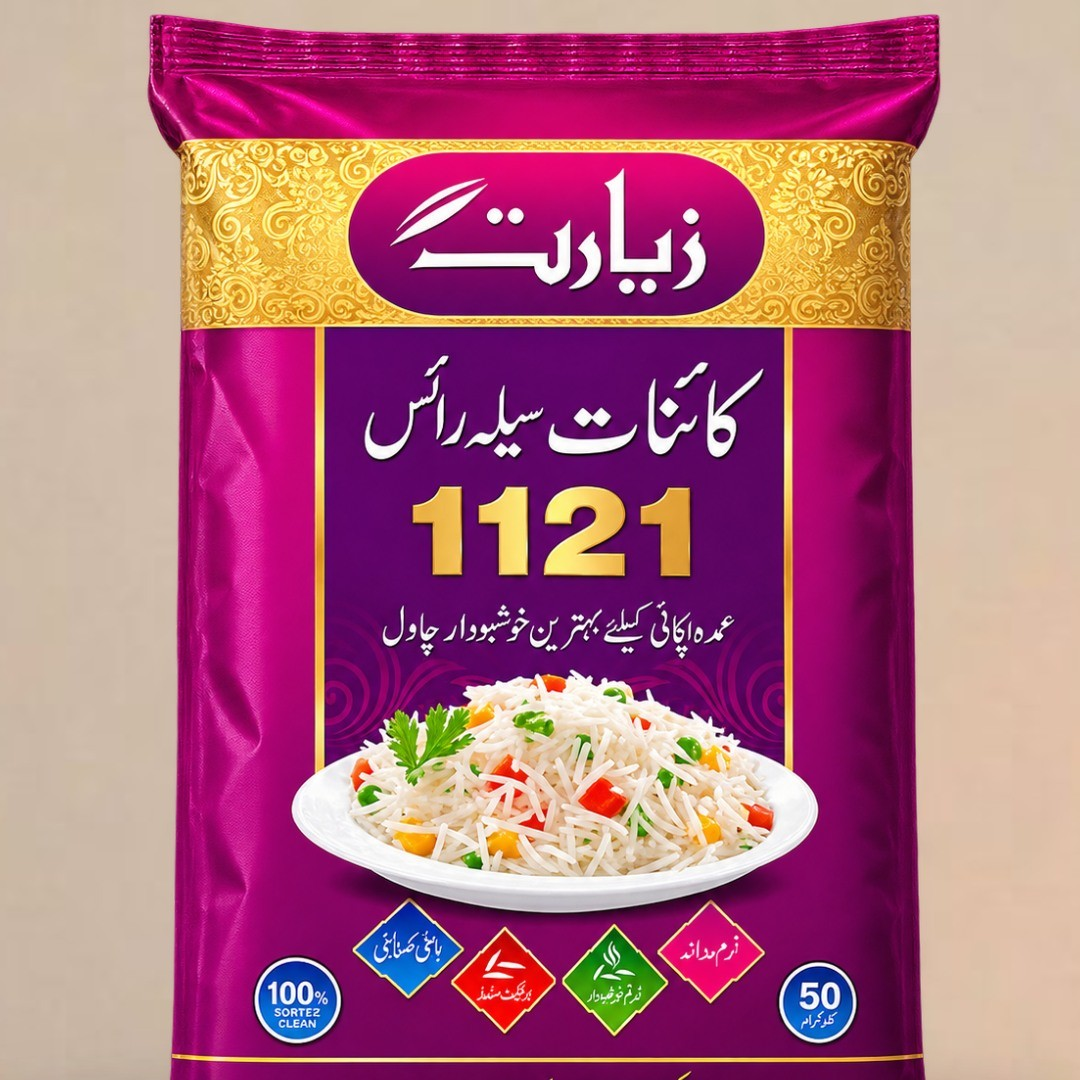
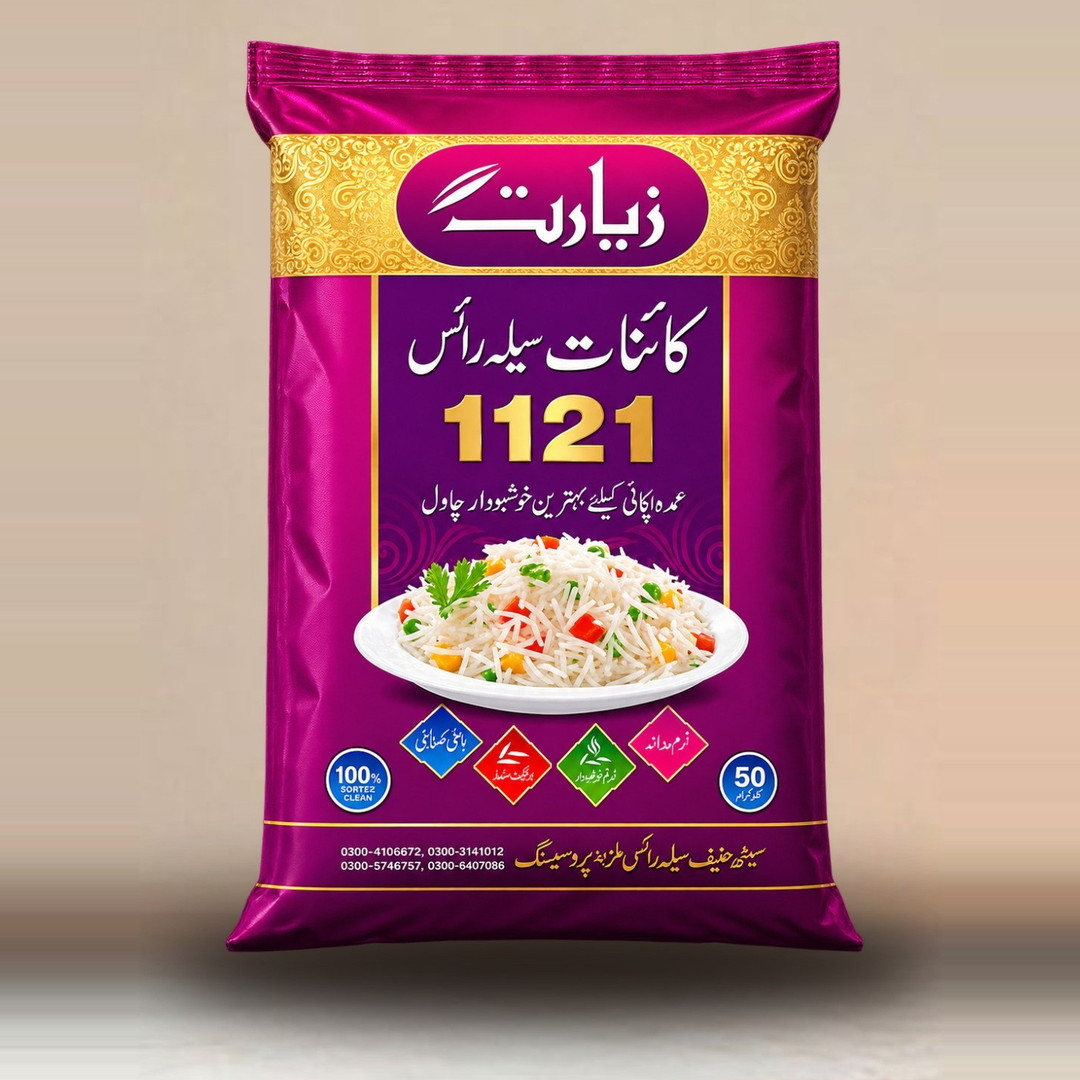
Show the full Ziyarat Sella 1121 pack — stop the square crop.
The product frame was 1:1 with overflow hidden, so the tall Photopea shot lost the bottom of the bag. Recrop the pack to 3:4 around the sack, contain it in the square tile, and let the product gallery follow the image.

diff --git a/product-sella.html b/product-sella.html
@@ -11,15 +11,15 @@
   <meta property="og:description" content="Ziyarat Kainat Sella 1121 — extra-long parboiled rice from Saith Hanif Rice Mills. Suitable where cooked rice needs to hold. Pack sizes 5 / 10 / 20 / 25 kg.">
   <meta property="og:type" content="website">
   <meta property="og:url" content="https://muhammadashir0.github.io/jhabran-rice-mill/product-sella.html">
-  <meta property="og:image" content="https://muhammadashir0.github.io/jhabran-rice-mill/assets/products/ziyarat-sella-1121.jpg?v=1">
+  <meta property="og:image" content="https://muhammadashir0.github.io/jhabran-rice-mill/assets/products/ziyarat-sella-1121.jpg?v=2">
   <meta name="theme-color" content="#0B241C">
   <link rel="preconnect" href="https://fonts.googleapis.com">
   <link rel="preconnect" href="https://fonts.gstatic.com" crossorigin>
   <link href="https://fonts.googleapis.com/css2?family=Inter:wght@400;500;600;700&family=Playfair+Display:ital,wght@0,400;0,500;0,600;0,700;1,400;1,500;1,600&family=Noto+Nastaliq+Urdu:wght@400;500;600;700&display=swap" rel="stylesheet">
-  <link rel="stylesheet" href="css/style.css?v=87">
+  <link rel="stylesheet" href="css/style.css?v=88">
   <link rel="stylesheet" href="css/home.css?v=88">
   <script type="application/ld+json">
-  {"@context": "https://schema.org", "@type": "Product", "name": "Kainat Sella Rice 1121", "brand": {"@type": "Brand", "name": "Ziyarat"}, "description": "Ziyarat Kainat Sella 1121 — extra-long parboiled rice from Saith Hanif Rice Mills. Suitable where cooked rice needs to hold. Pack sizes 5 / 10 / 20 / 25 kg.", "image": "https://muhammadashir0.github.io/jhabran-rice-mill/assets/products/ziyarat-sella-1121.jpg?v=1", "manufacturer": {"@type": "Organization", "name": "Saith Hanif Rice Mills", "url": "https://muhammadashir0.github.io/jhabran-rice-mill/"}}
+  {"@context": "https://schema.org", "@type": "Product", "name": "Kainat Sella Rice 1121", "brand": {"@type": "Brand", "name": "Ziyarat"}, "description": "Ziyarat Kainat Sella 1121 — extra-long parboiled rice from Saith Hanif Rice Mills. Suitable where cooked rice needs to hold. Pack sizes 5 / 10 / 20 / 25 kg.", "image": "https://muhammadashir0.github.io/jhabran-rice-mill/assets/products/ziyarat-sella-1121.jpg?v=2", "manufacturer": {"@type": "Organization", "name": "Saith Hanif Rice Mills", "url": "https://muhammadashir0.github.io/jhabran-rice-mill/"}}
   </script>
 </head>
 <body>
@@ -98,12 +98,12 @@
       <div class="wrap pdp-grid">
                 <div class="pdp-gallery">
           <figure class="pdp-shot">
-            <img src="assets/products/ziyarat-sella-1121.jpg?v=1" alt="Ziyarat Kainat Sella Rice 1121" width="1080" height="1920" fetchpriority="high" decoding="async">
+            <img src="assets/products/ziyarat-sella-1121.jpg?v=2" alt="Ziyarat Kainat Sella Rice 1121" width="1080" height="1440" fetchpriority="high" decoding="async">
           </figure>
           <details class="pack-design">
             <summary>Turn the pack · put your mark on it</summary>
             <div class="pack3d-stage" data-pack3d="sella-1121" aria-label="360 view of Ziyarat Kainat Sella Rice 1121">
-            <div class="pack3d-fallback"><img src="assets/products/ziyarat-sella-1121.jpg?v=1" alt="Ziyarat Kainat Sella Rice 1121"></div>
+            <div class="pack3d-fallback"><img src="assets/products/ziyarat-sella-1121.jpg?v=2" alt="Ziyarat Kainat Sella Rice 1121"></div>
           </div>
           <div class="pack-config">
             <p class="dir-label">Your mark on this sack</p>

diff --git a/index.html b/index.html
@@ -17,7 +17,7 @@
   <link rel="preconnect" href="https://fonts.googleapis.com">
   <link rel="preconnect" href="https://fonts.gstatic.com" crossorigin>
   <link href="https://fonts.googleapis.com/css2?family=Inter:wght@400;500;600;700&family=Playfair+Display:ital,wght@0,400;0,500;0,600;0,700;1,400;1,500;1,600&family=Noto+Nastaliq+Urdu:wght@400;500;600;700&display=swap" rel="stylesheet">
-  <link rel="stylesheet" href="css/style.css?v=87">
+  <link rel="stylesheet" href="css/style.css?v=88">
   <link rel="stylesheet" href="css/home.css?v=88">
 <script type="application/ld+json">
   {"@context":"https://schema.org","@type":"Organization","name":"Saith Hanif Rice Mills","url":"https://muhammadashir0.github.io/jhabran-rice-mill/","foundingDate":"1979","email":"saithhanifsailaricemills@gmail.com","telephone":"+923133332101","address":{"@type":"PostalAddress","streetAddress":"Sheikhupura–Hafizabad Road, Grain Market Jhabran","addressLocality":"Sheikhupura","addressRegion":"Punjab","addressCountry":"PK"},"brand":[{"@type":"Brand","name":"Ziyarat"},{"@type":"Brand","name":"Sultan"},{"@type":"Brand","name":"Wazir"}]}
@@ -249,7 +249,7 @@
           <a class="ed-textlink" href="ziyarat.html">Explore Ziyarat</a>
         </div>
         <a class="ed-brand-pack" href="products.html">
-          <img src="assets/products/ziyarat-sella-1121-sq.jpg?v=1" alt="Ziyarat Kainat Sella 1121 pack" loading="lazy" decoding="async">
+          <img src="assets/products/ziyarat-sella-1121-sq.jpg?v=2" alt="Ziyarat Kainat Sella 1121 pack" loading="lazy" decoding="async">
         </a>
       </div>
       <div class="wrap ed-brand-pair" data-aos="fade-up">

diff --git a/products.html b/products.html
@@ -16,7 +16,7 @@
   <link rel="preconnect" href="https://fonts.googleapis.com">
   <link rel="preconnect" href="https://fonts.gstatic.com" crossorigin>
   <link href="https://fonts.googleapis.com/css2?family=Inter:wght@400;500;600;700&family=Playfair+Display:ital,wght@0,400;0,500;0,600;0,700;1,400;1,500;1,600&family=Noto+Nastaliq+Urdu:wght@400;500;600;700&display=swap" rel="stylesheet">
-  <link rel="stylesheet" href="css/style.css?v=87">
+  <link rel="stylesheet" href="css/style.css?v=88">
   <link rel="stylesheet" href="css/home.css?v=88">
 </head>
 <body>
@@ -152,7 +152,7 @@
             </div>
           </article>
           <article class="product-card" data-filter="ziyarat sella kainat 1121">
-            <a class="shot pack-stage" href="product-sella.html"><img src="assets/products/ziyarat-sella-1121-sq.jpg?v=1" alt="Kainat Sella Rice 1121" loading="lazy" decoding="async"></a>
+            <a class="shot pack-stage" href="product-sella.html"><img src="assets/products/ziyarat-sella-1121-sq.jpg?v=2" alt="Kainat Sella Rice 1121" loading="lazy" decoding="async"></a>
             <div class="body">
               <div class="tag">Ziyarat · Purple · Sella 1121 · 5 / 10 / 20 / 25 kg</div>
               <h3>Kainat Sella Rice 1121</h3>

diff --git a/ziyarat.html b/ziyarat.html
@@ -15,7 +15,7 @@
   <link rel="preconnect" href="https://fonts.googleapis.com">
   <link rel="preconnect" href="https://fonts.gstatic.com" crossorigin>
   <link href="https://fonts.googleapis.com/css2?family=Inter:wght@400;500;600;700&family=Playfair+Display:ital,wght@0,400;0,500;0,600;0,700;1,400&display=swap" rel="stylesheet">
-  <link rel="stylesheet" href="css/style.css?v=87">
+  <link rel="stylesheet" href="css/style.css?v=88">
   <link rel="stylesheet" href="css/home.css?v=88">
 </head>
 <body>
@@ -114,7 +114,7 @@
             </div>
           </article>
           <article class="product-card">
-            <a class="shot pack-stage" href="product-sella.html"><img src="assets/products/ziyarat-sella-1121-sq.jpg?v=1" alt="Kainat Sella Rice 1121" loading="lazy" decoding="async"></a>
+            <a class="shot pack-stage" href="product-sella.html"><img src="assets/products/ziyarat-sella-1121-sq.jpg?v=2" alt="Kainat Sella Rice 1121" loading="lazy" decoding="async"></a>
             <div class="body">
               <div class="tag">Ziyarat · Sella 1121 · 5 / 10 / 20 / 25 kg</div>
               <h3>Kainat Sella Rice 1121</h3>

diff --git a/product-steam.html b/product-steam.html
@@ -16,7 +16,7 @@
   <link rel="preconnect" href="https://fonts.googleapis.com">
   <link rel="preconnect" href="https://fonts.gstatic.com" crossorigin>
   <link href="https://fonts.googleapis.com/css2?family=Inter:wght@400;500;600;700&family=Playfair+Display:ital,wght@0,400;0,500;0,600;0,700;1,400;1,500;1,600&family=Noto+Nastaliq+Urdu:wght@400;500;600;700&display=swap" rel="stylesheet">
-  <link rel="stylesheet" href="css/style.css?v=87">
+  <link rel="stylesheet" href="css/style.css?v=88">
   <link rel="stylesheet" href="css/home.css?v=88">
   <script type="application/ld+json">
   {"@context": "https://schema.org", "@type": "Product", "name": "Kainat Steam Rice 1121", "brand": {"@type": "Brand", "name": "Ziyarat"}, "description": "Ziyarat Kainat Steam 1121 — extra-long steamed rice from Saith Hanif Rice Mills in Sheikhupura. Pack sizes 5 / 10 / 20 / 25 kg. Enquire for specifications.", "image": "https://muhammadashir0.github.io/jhabran-rice-mill/assets/products/blank.jpg?v=1", "manufacturer": {"@type": "Organization", "name": "Saith Hanif Rice Mills", "url": "https://muhammadashir0.github.io/jhabran-rice-mill/"}}

diff --git a/product-classic.html b/product-classic.html
@@ -16,7 +16,7 @@
   <link rel="preconnect" href="https://fonts.googleapis.com">
   <link rel="preconnect" href="https://fonts.gstatic.com" crossorigin>
   <link href="https://fonts.googleapis.com/css2?family=Inter:wght@400;500;600;700&family=Playfair+Display:ital,wght@0,400;0,500;0,600;0,700;1,400;1,500;1,600&family=Noto+Nastaliq+Urdu:wght@400;500;600;700&display=swap" rel="stylesheet">
-  <link rel="stylesheet" href="css/style.css?v=87">
+  <link rel="stylesheet" href="css/style.css?v=88">
   <link rel="stylesheet" href="css/home.css?v=88">
   <script type="application/ld+json">
   {"@context": "https://schema.org", "@type": "Product", "name": "Classic Kainat Basmati Sella", "brand": {"@type": "Brand", "name": "Ziyarat"}, "description": "Ziyarat Classic Kainat Basmati Sella — extra-long parboiled basmati from Saith Hanif Rice Mills. Distinct from the purple 1121 sella sack.", "image": "https://muhammadashir0.github.io/jhabran-rice-mill/assets/products/blank.jpg?v=1", "manufacturer": {"@type": "Organization", "name": "Saith Hanif Rice Mills", "url": "https://muhammadashir0.github.io/jhabran-rice-mill/"}}

diff --git a/product-sultan-sella.html b/product-sultan-sella.html
@@ -16,7 +16,7 @@
   <link rel="preconnect" href="https://fonts.googleapis.com">
   <link rel="preconnect" href="https://fonts.gstatic.com" crossorigin>
   <link href="https://fonts.googleapis.com/css2?family=Inter:wght@400;500;600;700&family=Playfair+Display:ital,wght@0,400;0,500;0,600;0,700;1,400;1,500;1,600&family=Noto+Nastaliq+Urdu:wght@400;500;600;700&display=swap" rel="stylesheet">
-  <link rel="stylesheet" href="css/style.css?v=87">
+  <link rel="stylesheet" href="css/style.css?v=88">
   <link rel="stylesheet" href="css/home.css?v=88">
   <script type="application/ld+json">
   {"@context": "https://schema.org", "@type": "Product", "name": "Sultan Kainat Basmati Sella", "brand": {"@type": "Brand", "name": "Sultan"}, "description": "Sultan Kainat Basmati Sella from Saith Hanif Rice Mills — extra-long parboiled rice under the Sultan brand. Pack sizes 5 / 10 / 20 / 25 kg.", "image": "https://muhammadashir0.github.io/jhabran-rice-mill/assets/products/blank.jpg?v=1", "manufacturer": {"@type": "Organization", "name": "Saith Hanif Rice Mills", "url": "https://muhammadashir0.github.io/jhabran-rice-mill/"}}

diff --git a/product-classic-steam.html b/product-classic-steam.html
@@ -16,7 +16,7 @@
   <link rel="preconnect" href="https://fonts.googleapis.com">
   <link rel="preconnect" href="https://fonts.gstatic.com" crossorigin>
   <link href="https://fonts.googleapis.com/css2?family=Inter:wght@400;500;600;700&family=Playfair+Display:ital,wght@0,400;0,500;0,600;0,700;1,400;1,500;1,600&family=Noto+Nastaliq+Urdu:wght@400;500;600;700&display=swap" rel="stylesheet">
-  <link rel="stylesheet" href="css/style.css?v=87">
+  <link rel="stylesheet" href="css/style.css?v=88">
   <link rel="stylesheet" href="css/home.css?v=88">
   <script type="application/ld+json">
   {"@context": "https://schema.org", "@type": "Product", "name": "Classic Kainat Basmati Steam", "brand": {"@type": "Brand", "name": "Ziyarat"}, "description": "Ziyarat Classic Kainat Basmati Steam — extra-long steamed basmati from Saith Hanif Rice Mills. Distinct from green Steam 1121.", "image": "https://muhammadashir0.github.io/jhabran-rice-mill/assets/products/blank.jpg?v=1", "manufacturer": {"@type": "Organization", "name": "Saith Hanif Rice Mills", "url": "https://muhammadashir0.github.io/jhabran-rice-mill/"}}

diff --git a/product-wazir-steam.html b/product-wazir-steam.html
@@ -16,7 +16,7 @@
   <link rel="preconnect" href="https://fonts.googleapis.com">
   <link rel="preconnect" href="https://fonts.gstatic.com" crossorigin>
   <link href="https://fonts.googleapis.com/css2?family=Inter:wght@400;500;600;700&family=Playfair+Display:ital,wght@0,400;0,500;0,600;0,700;1,400;1,500;1,600&family=Noto+Nastaliq+Urdu:wght@400;500;600;700&display=swap" rel="stylesheet">
-  <link rel="stylesheet" href="css/style.css?v=87">
+  <link rel="stylesheet" href="css/style.css?v=88">
   <link rel="stylesheet" href="css/home.css?v=88">
   <script type="application/ld+json">
   {"@context": "https://schema.org", "@type": "Product", "name": "Wazir Kainat Steam 1121", "brand": {"@type": "Brand", "name": "Wazir"}, "description": "Wazir Kainat Steam 1121 from Saith Hanif Rice Mills — extra-long steamed rice under the Wazir brand. Pack sizes 5 / 10 / 20 / 25 kg.", "image": "https://muhammadashir0.github.io/jhabran-rice-mill/assets/products/blank.jpg?v=1", "manufacturer": {"@type": "Organization", "name": "Saith Hanif Rice Mills", "url": "https://muhammadashir0.github.io/jhabran-rice-mill/"}}

diff --git a/product-basmati.html b/product-basmati.html
@@ -16,7 +16,7 @@
   <link rel="preconnect" href="https://fonts.googleapis.com">
   <link rel="preconnect" href="https://fonts.gstatic.com" crossorigin>
   <link href="https://fonts.googleapis.com/css2?family=Inter:wght@400;500;600;700&family=Playfair+Display:ital,wght@0,400;0,500;0,600;0,700;1,400;1,500;1,600&family=Noto+Nastaliq+Urdu:wght@400;500;600;700&display=swap" rel="stylesheet">
-  <link rel="stylesheet" href="css/style.css?v=87">
+  <link rel="stylesheet" href="css/style.css?v=88">
   <link rel="stylesheet" href="css/home.css?v=88">
   <script type="application/ld+json">
   {"@context": "https://schema.org", "@type": "Product", "name": "Ziyarat Basmati Rice", "brand": {"@type": "Brand", "name": "Ziyarat"}, "description": "Ziyarat Basmati Rice from Saith Hanif Rice Mills — everyday fragrant basmati, not extra-long 1121. Pack sizes 5 / 10 / 20 / 25 kg.", "image": "https://muhammadashir0.github.io/jhabran-rice-mill/assets/products/blank.jpg?v=1", "manufacturer": {"@type": "Organization", "name": "Saith Hanif Rice Mills", "url": "https://muhammadashir0.github.io/jhabran-rice-mill/"}}

diff --git a/product-b1.html b/product-b1.html
@@ -16,7 +16,7 @@
   <link rel="preconnect" href="https://fonts.googleapis.com">
   <link rel="preconnect" href="https://fonts.gstatic.com" crossorigin>
   <link href="https://fonts.googleapis.com/css2?family=Inter:wght@400;500;600;700&family=Playfair+Display:ital,wght@0,400;0,500;0,600;0,700;1,400;1,500;1,600&family=Noto+Nastaliq+Urdu:wght@400;500;600;700&display=swap" rel="stylesheet">
-  <link rel="stylesheet" href="css/style.css?v=87">
+  <link rel="stylesheet" href="css/style.css?v=88">
   <link rel="stylesheet" href="css/home.css?v=88">
   <script type="application/ld+json">
   {"@context": "https://schema.org", "@type": "Product", "name": "Ziyarat B-1 Broken", "brand": {"@type": "Brand", "name": "Ziyarat"}, "description": "Ziyarat B-1 Broken rice from Saith Hanif Rice Mills. Broken grain for catering and value cooking — not whole extra-long rice.", "image": "https://muhammadashir0.github.io/jhabran-rice-mill/assets/products/blank.jpg?v=1", "manufacturer": {"@type": "Organization", "name": "Saith Hanif Rice Mills", "url": "https://muhammadashir0.github.io/jhabran-rice-mill/"}}

diff --git a/product-short-grain.html b/product-short-grain.html
@@ -16,7 +16,7 @@
   <link rel="preconnect" href="https://fonts.googleapis.com">
   <link rel="preconnect" href="https://fonts.gstatic.com" crossorigin>
   <link href="https://fonts.googleapis.com/css2?family=Inter:wght@400;500;600;700&family=Playfair+Display:ital,wght@0,400;0,500;0,600;0,700;1,400;1,500;1,600&family=Noto+Nastaliq+Urdu:wght@400;500;600;700&display=swap" rel="stylesheet">
-  <link rel="stylesheet" href="css/style.css?v=87">
+  <link rel="stylesheet" href="css/style.css?v=88">
   <link rel="stylesheet" href="css/home.css?v=88">
   <script type="application/ld+json">
   {"@context": "https://schema.org", "@type": "Product", "name": "Ziyarat Short Grain", "brand": {"@type": "Brand", "name": "Ziyarat"}, "description": "Ziyarat Short Grain rice from Saith Hanif Rice Mills — shorter kernel, not extra-long 1121. Pack sizes 5 / 10 / 20 / 25 kg.", "image": "https://muhammadashir0.github.io/jhabran-rice-mill/assets/products/blank.jpg?v=1", "manufacturer": {"@type": "Organization", "name": "Saith Hanif Rice Mills", "url": "https://muhammadashir0.github.io/jhabran-rice-mill/"}}
